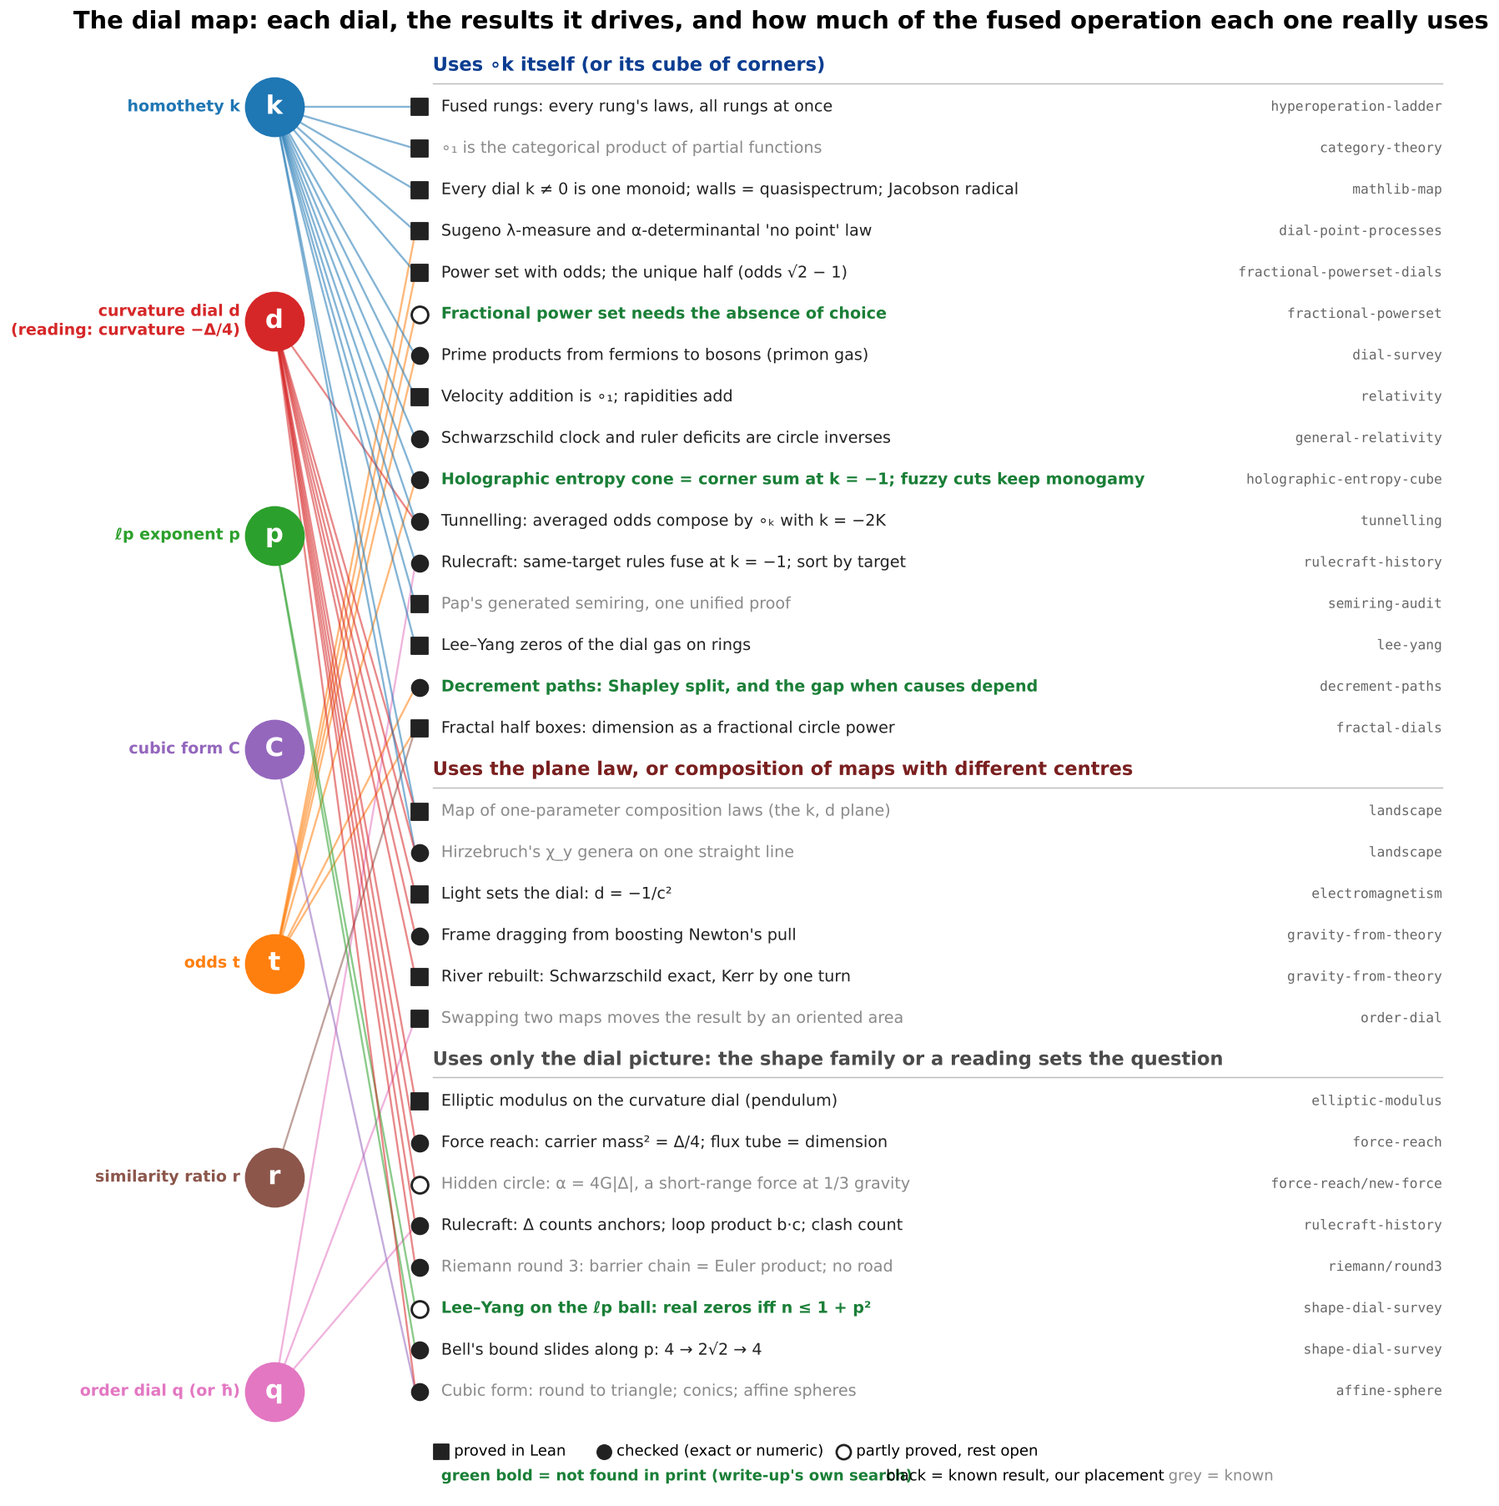
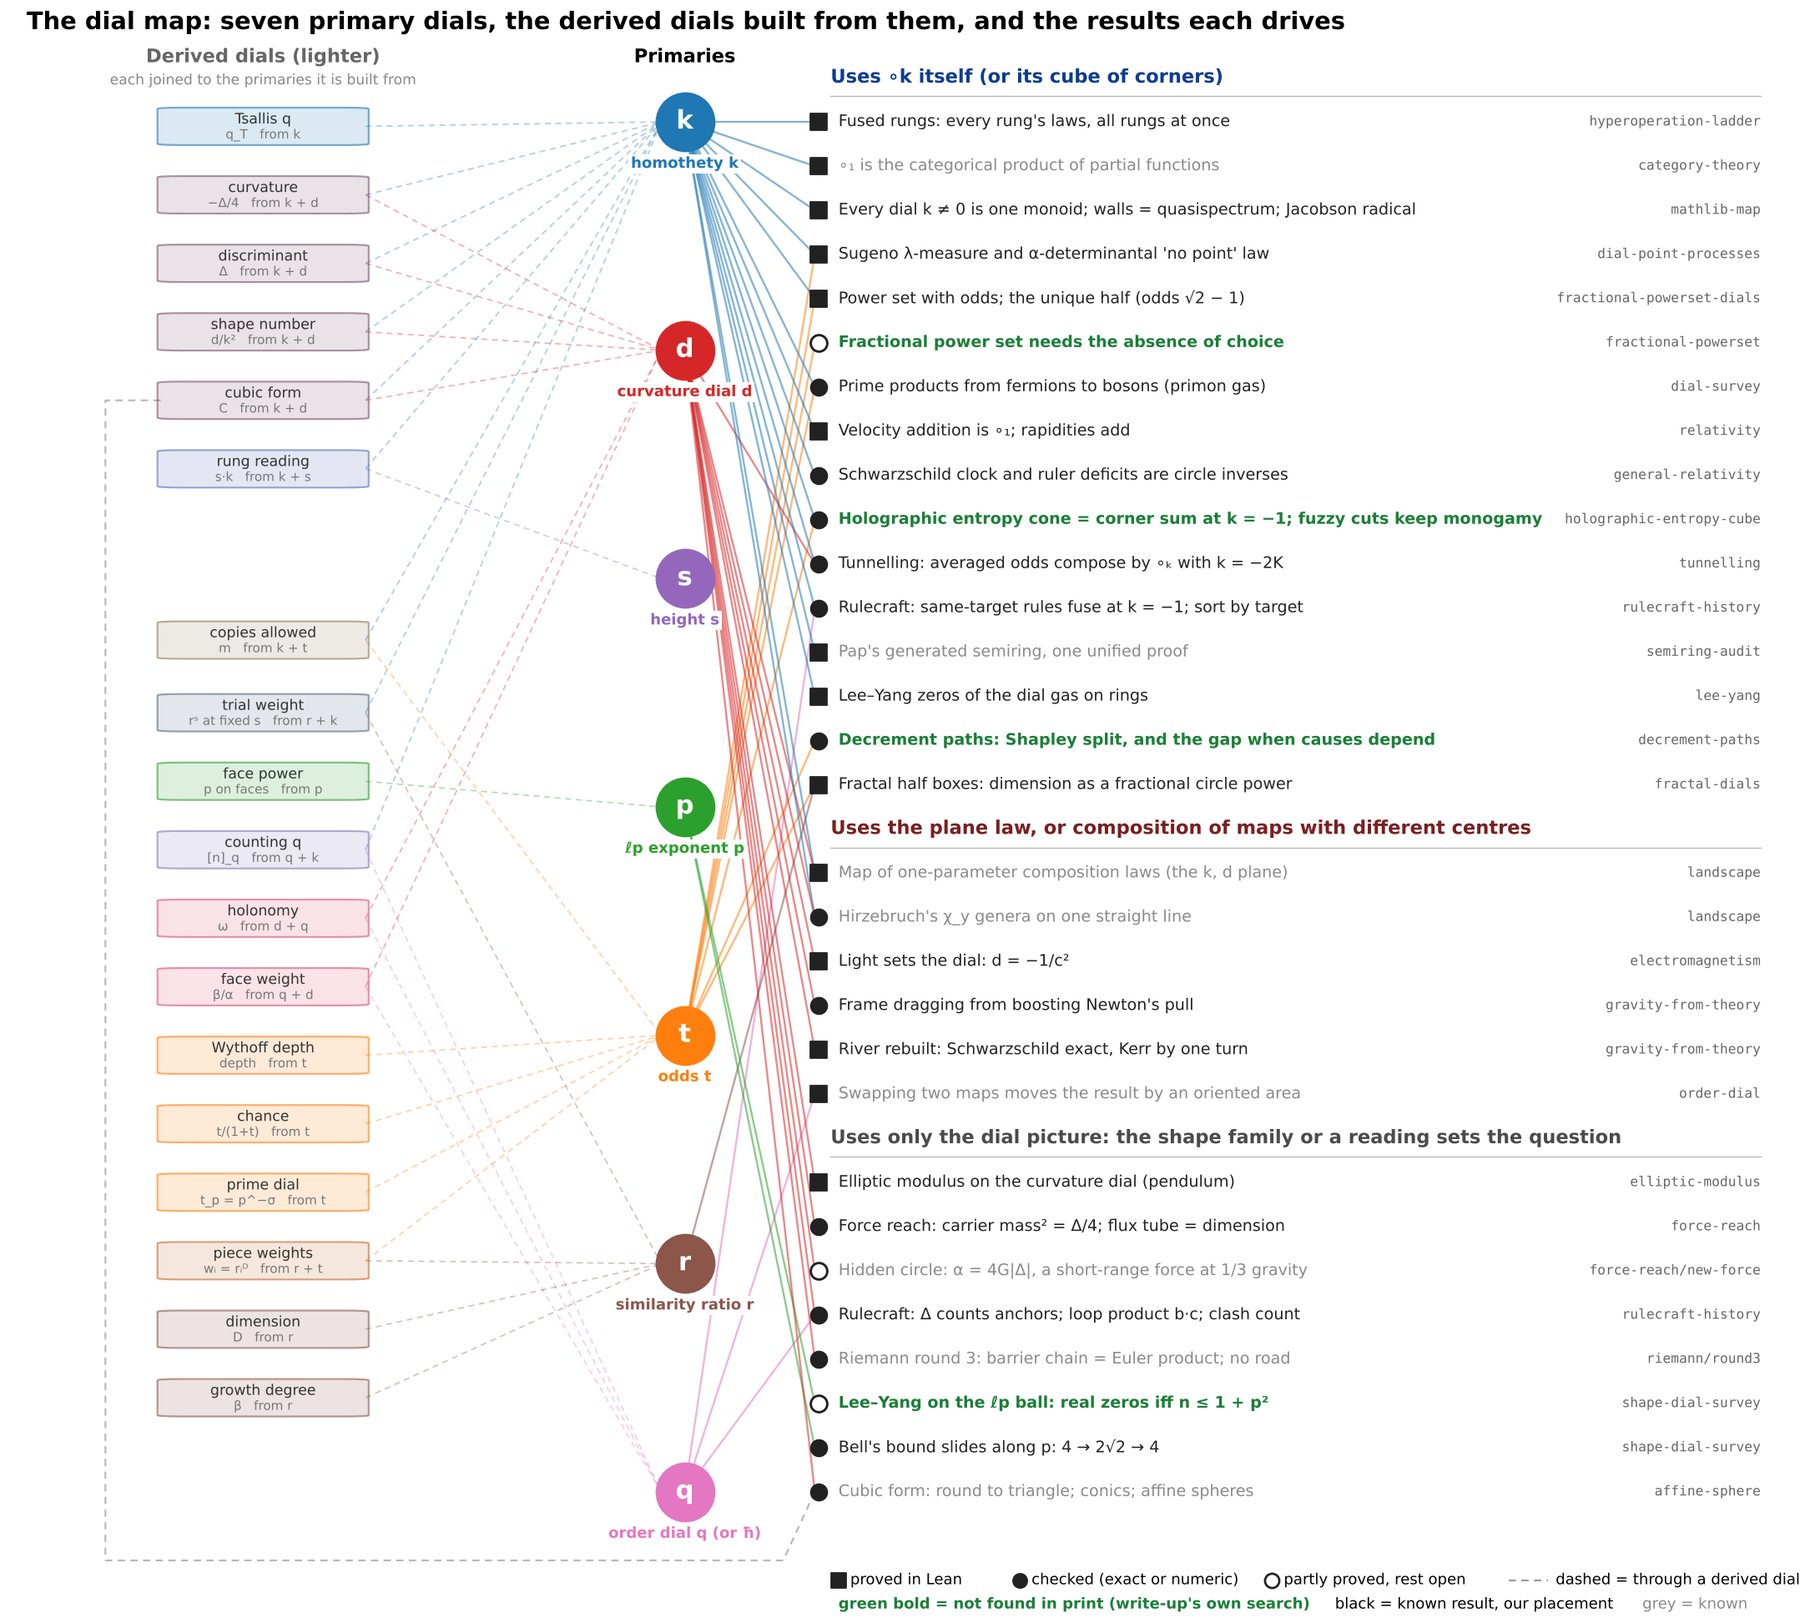
DRAFT: dial map shows primaries and derived dials
Seven primaries (k, d, s, p, t, r, q) as hubs; derived dials from the dial-audit
catalogue drawn lighter, each joined to its primaries; C moved to derived.

diff --git a/topics/dial-map/figures.py b/topics/dial-map/figures.py
@@ -5,7 +5,11 @@ import matplotlib
 matplotlib.use("Agg")
 import matplotlib.pyplot as plt
 from matplotlib.patches import FancyBboxPatch, FancyArrowPatch, Polygon
-from results import DIALS, RESULTS
+from results import DIALS, RESULTS, DERIVED_KEYS
+import sys as _sys
+_sys.path.insert(0, os.path.join(os.path.dirname(os.path.abspath(__file__)), "..", "dial-audit"))
+from derived_dials import DERIVED  # the one catalogue of derived dials
+import matplotlib.colors as mcolors
 
 HERE = os.path.dirname(os.path.abspath(__file__))
 OUT = os.path.join(HERE, "figures")
@@ -82,14 +86,16 @@ def fig1():
 
 # ---------------------------------------------------------------- fig 2: the main map
 def fig2():
+    """Seven primaries as the hubs; derived dials drawn lighter on the left, each joined to the primaries
+    it is built from; results on the right, joined to the dials that drive them."""
     order = ["op", "plane", "pic"]
     rows = []
     for b in order:
         rows.append(("HEADER", b))
         rows += [r for r in RESULTS if r[2] == b]
     n = len(rows)
-    fig, ax = plt.subplots(figsize=(17, 0.47 * n + 2.2))
-    ax.set_xlim(-0.05, 1.62); ax.set_ylim(-1.5, n + 1.2); ax.axis("off")
+    fig, ax = plt.subplots(figsize=(21, 0.5 * n + 2.6))
+    ax.set_xlim(-0.62, 1.62); ax.set_ylim(-1.7, n + 1.4); ax.axis("off")
     ys = {}
     yy = n
     for r in rows:
@@ -100,19 +106,59 @@ def fig2():
         else:
             ys[r] = yy
         yy -= 1
-    # dial hubs on the left, spread evenly
+    HX = 0.235
     nd = len(DIALS)
     hub_y = {d[0]: n - 1 - i * (n - 2) / (nd - 1) for i, d in enumerate(DIALS)}
+    # derived dials: target height = mean of their parents' hubs, then spread apart
+    DX = -0.30
+    items = sorted(DERIVED, key=lambda e: (np.mean([hub_y[p_] for p_ in e[2]]), -len(e[2])), reverse=True)
+    ty = [float(np.mean([hub_y[p_] for p_ in e[2]])) for e in items]
+    sep = 1.55
+    for _ in range(500):
+        moved = False
+        for i in range(len(ty) - 1):
+            if ty[i] - ty[i + 1] < sep:
+                push = (sep - (ty[i] - ty[i + 1])) / 2
+                ty[i] += push; ty[i + 1] -= push; moved = True
+        if not moved:
+            break
+    top, bot = n - 1.1, 0.0   # keep the column inside the plot, keeping order and spacing
+    span = ty[0] - ty[-1]
+    if span > top - bot:
+        ty = [bot + (y - ty[-1]) * (top - bot) / span for y in ty]
+    else:
+        shift = max(0, ty[0] - top) - max(0, bot - ty[-1])
+        ty = [y - shift for y in ty]
+    dpos = {}
+    for e, y in zip(items, ty):
+        name, sym, par = e[0], e[1], e[2]
+        mix = np.mean([mcolors.to_rgb(DCOL[p_]) for p_ in par], axis=0)
+        for p_ in par:
+            ax.plot([DX + 0.13, HX - 0.03], [y, hub_y[p_]], color=DCOL[p_], lw=1.0, alpha=0.35, ls=(0, (4, 3)), zorder=1)
+        ax.add_patch(FancyBboxPatch((DX - 0.13, y - 0.42), 0.26, 0.84, boxstyle="round,pad=0.004,rounding_size=0.03",
+                                    fc=(*mix, 0.16), ec=(*mix, 0.6), lw=1.2, zorder=3))
+        ax.text(DX, y + 0.15, name, ha="center", va="center", fontsize=9.6, color="#333", zorder=4)
+        ax.text(DX, y - 0.2, sym + "   from " + " + ".join(par), ha="center", va="center", fontsize=8.4, color="#777", zorder=4)
+        dpos[name] = y
+    ax.text(DX, n + 0.35, "Derived dials (lighter)", ha="center", fontsize=12.5, weight="bold", color="#666")
+    ax.text(DX, n - 0.15, "each joined to the primaries it is built from", ha="center", fontsize=9.5, color="#888")
+    ax.text(HX, n + 0.35, "Primaries", ha="center", fontsize=12.5, weight="bold")
     for letter, name, col in DIALS:
         y = hub_y[letter]
-        ax.scatter([0.235], [y], s=1500, color=col, zorder=5)
-        ax.text(0.235, y, letter, ha="center", va="center", color="white", fontsize=17, weight="bold", zorder=6)
-        ax.text(0.195, y, name, ha="right", va="center", fontsize=10.5, color=col, weight="bold")
-    # edges
+        ax.scatter([HX], [y], s=1500, color=col, zorder=5)
+        ax.text(HX, y, letter, ha="center", va="center", color="white", fontsize=17, weight="bold", zorder=6)
+        ax.text(HX, y - 0.95, name, ha="center", va="center", fontsize=10, color=col, weight="bold", zorder=6,
+                bbox=dict(fc="white", ec="none", pad=1.5))
+    # edges: from a primary hub, or from a derived dial's box (drawn lighter, routed below the hubs)
     for r, y in ys.items():
         for letter in r[1]:
-            ax.plot([0.235, 0.40], [hub_y[letter], y], color=DCOL[letter], lw=1.3, alpha=0.55, zorder=1)
-    # result nodes
+            if letter in DERIVED_KEYS:
+                y0 = dpos[DERIVED_KEYS[letter]]
+                xs = [DX - 0.13, -0.50, -0.50, 0.36, 0.40]
+                yv = [y0, y0, -0.55, -0.55, y]
+                ax.plot(xs, yv, color="#9a9a9a", lw=1.2, alpha=0.7, ls=(0, (4, 3)), zorder=1)
+            else:
+                ax.plot([HX, 0.40], [hub_y[letter], y], color=DCOL[letter], lw=1.3, alpha=0.55, zorder=1)
     for r, y in ys.items():
         name, dials, b, status, new, folder = r
         if status == "lean":
@@ -124,16 +170,17 @@ def fig2():
         ax.text(0.43, y, name, va="center", fontsize=10.6, color=NEWCOL[new],
                 weight="bold" if new == "new" else "normal")
         ax.text(1.60, y, folder, va="center", ha="right", fontsize=9, color="#666", family="DejaVu Sans Mono")
-    # legend (two lines)
-    ly, ly2 = -0.45, -1.05
+    ly, ly2 = -1.0, -1.55
     ax.scatter([0.43], [ly], marker="s", s=90, color="#222"); ax.text(0.445, ly, "proved in Lean", va="center", fontsize=10)
-    ax.scatter([0.62], [ly], marker="o", s=90, color="#222"); ax.text(0.635, ly, "checked (exact or numeric)", va="center", fontsize=10)
-    ax.scatter([0.90], [ly], marker="o", s=90, facecolor="white", edgecolor="#222", lw=1.5)
-    ax.text(0.915, ly, "partly proved, rest open", va="center", fontsize=10)
+    ax.scatter([0.66], [ly], marker="o", s=90, color="#222"); ax.text(0.675, ly, "checked (exact or numeric)", va="center", fontsize=10)
+    ax.scatter([0.98], [ly], marker="o", s=90, facecolor="white", edgecolor="#222", lw=1.5)
+    ax.text(0.995, ly, "partly proved, rest open", va="center", fontsize=10)
+    ax.plot([1.28, 1.33], [ly, ly], color="#9a9a9a", ls=(0, (4, 3)), lw=1.2)
+    ax.text(1.34, ly, "dashed = through a derived dial", va="center", fontsize=10)
     ax.text(0.43, ly2, "green bold = not found in print (write-up's own search)", va="center", fontsize=10, color=NEWCOL["new"], weight="bold")
-    ax.text(0.95, ly2, "black = known result, our placement", va="center", fontsize=10)
-    ax.text(1.28, ly2, "grey = known", va="center", fontsize=10, color=NEWCOL["known"])
-    ax.text(0.0, n + 0.9, "The dial map: each dial, the results it drives, and how much of the fused operation each one really uses",
+    ax.text(1.06, ly2, "black = known result, our placement", va="center", fontsize=10)
+    ax.text(1.45, ly2, "grey = known", va="center", fontsize=10, color=NEWCOL["known"])
+    ax.text(-0.6, n + 1.1, "The dial map: seven primary dials, the derived dials built from them, and the results each drives",
             fontsize=16, weight="bold")
     save(fig, "fig2-dial-map.png")
 

diff --git a/topics/dial-map/results.py b/topics/dial-map/results.py
@@ -2,15 +2,20 @@
 the fused operation, its status, how new it is, and the folder it lives in.
 Every row was read off that folder's README on Nov 26, 2026 (see README.md here)."""
 
-DIALS = [  # letter, name, colour
+DIALS = [  # the seven primaries (dial audit, Nov 26): letter, name, colour
     ("k", "homothety k", "#1f77b4"),
-    ("d", "curvature dial d\n(reading: curvature −Δ/4)", "#d62728"),
+    ("d", "curvature dial d", "#d62728"),
+    ("s", "height s", "#9467bd"),
     ("p", "ℓp exponent p", "#2ca02c"),
-    ("C", "cubic form C", "#9467bd"),
     ("t", "odds t", "#ff7f0e"),
     ("r", "similarity ratio r", "#8c564b"),
     ("q", "order dial q (or ħ)", "#e377c2"),
 ]
+
+# Derived dials, drawn lighter and joined to the primaries they are built from (Brennan, Nov 26:
+# "Show both that way"). The list itself lives in ../dial-audit/derived_dials.py, the one catalogue.
+# A result can name a derived dial by its key here; "C" is the cubic form.
+DERIVED_KEYS = {"C": "cubic form"}
 
 # bin: "op"    = uses a ∘ₖ b = a + b + k·ab itself, or its cube of corners
 #      "plane" = uses the plane law (a + b + k·ab)/(1 − d·ab) or the wider affine/Möbius composition

diff --git a/topics/dial-map/README.md b/topics/dial-map/README.md
@@ -45,23 +45,35 @@ The point of the picture: the theory is not a new foundation. It is a well-place
 
 ## 2. The dial map
 
-![Seven dials on the left, thirty results on the right, sorted by how they use the fused operation](figures/fig2-dial-map.png)
+![Seven primary dials in the middle, derived dials drawn lighter on the left, thirty results on the right](figures/fig2-dial-map.png)
 
-*Figure 2. Each line joins a dial to a result it drives. Results are grouped by how much of the fused operation they
-use. Squares are proved in Lean, filled circles are checked, open circles are partly proved. Green bold marks results not
-found in print in the write-up's own search; black marks a known result in our placement; grey marks known results.*
+*Figure 2. The seven primaries (from the [dial audit](../dial-audit/README.md)) are the hubs. Derived dials are drawn
+lighter on the left, each joined by dashed lines to the primaries it is built from, so work phrased in derived terms
+(curvature, Tsallis q, dimension, holonomy) still finds its neighbours. Solid lines join a dial to a result it drives;
+a dashed grey line means the result is labelled by a derived dial. Results are grouped by how much of the fused
+operation they use. Squares are proved in Lean, filled circles are checked, open circles are partly proved. Green bold
+marks results not found in print in the write-up's own search; black marks a known result in our placement; grey marks
+known results.*
+
+**Primaries and derived dials on one map (Brennan, Nov 26: "Show both that way").** The map's job is finding
+neighbouring work, and other fields usually speak in derived terms: physicists say curvature, not k and d. So both are
+shown, the primaries as the axes and the derived dials lighter. The derived list is read from the one catalogue,
+[`../dial-audit/derived_dials.py`](../dial-audit/derived_dials.py) (table in
+[DERIVED-DIALS.md](../dial-audit/DERIVED-DIALS.md)), so the two stay in step. Height s is a hub with no headline result
+on the map yet; it reaches results only through the rung reading.
 
 | Dial | What turning it does | Drives (folders) |
 |---|---|---|
 | **k**, homothety | Moves the wall −1/k that every scaling shares. k = 0 is addition, 1 the circle operation, −1 "A or B". | hyperoperation-ladder, category-theory, mathlib-map, dial-point-processes, dial-survey, relativity, general-relativity, holographic-entropy-cube, tunnelling, rulecraft-history, semiring-audit, lee-yang, landscape |
-| **d**, curvature dial (reading: curvature −Δ/4) | Bends ∘ₖ into the plane law (a + b + k·ab)/(1 − d·ab). The sign of Δ picks the kind. | landscape, electromagnetism, gravity-from-theory, tunnelling, elliptic-modulus, force-reach, rulecraft-history §7, riemann/round3, conics |
+| **d**, curvature dial (derived reading: curvature −Δ/4) | Bends ∘ₖ into the plane law (a + b + k·ab)/(1 − d·ab). The sign of Δ picks the kind. | landscape, electromagnetism, gravity-from-theory, tunnelling, elliptic-modulus, force-reach, rulecraft-history §7, riemann/round3, conics |
+| **s**, height | Rung s of a law; leaves the (k, d) plane (dial audit §3). | fractional-rungs, height-flow (no headline result on the map yet) |
 | **p**, ℓp exponent | Slides the shape from cross-polytope (1) through ball (2) to cube (∞). | shape-dial-survey (Lee–Yang on the ℓp ball, Bell's bound) |
-| **C**, cubic form (derived, not a free dial; see the note below) | Slides round to triangle. Zero exactly for ellipses. | simplex, affine-sphere, shape-dial-survey |
+| **C**, cubic form (derived from k and d; drawn as a derived dial) | Slides round to triangle. Zero exactly for ellipses. | simplex, affine-sphere, shape-dial-survey |
 | **t**, odds | How strongly each element takes part. All t = 1 is the plain power set. | fractional-powerset-dials, fractional-powerset, dial-survey, dial-point-processes, decrement-paths, fractal-dials |
 | **r**, similarity ratio | The zoom of each piece; dimension D comes out as a reading. | fractal-dials |
 | **q**, order dial (or ħ) | Turns order on. The swap gap is an oriented area, the holonomy ω. | order-dial, rulecraft-history |
 
-**C is derived from k and d, not a free dial (Nov 26).** Brennan: "It is derived from k and d." It fits what the laws do: every law (a + b + k·ab)/(1 − d·ab) has a quadratic norm a² + k·ab + d·b², so its unit curve is a conic. Conics are the round end of the cubic-form dial, where C = 0 ([`affine-names/`](../affine-names/) §4, Maschke–Pick–Berwald; every non-degenerate conic is projectively an ellipse). So within the (k, d) laws C never moves off zero: it adds no freedom of its own and only measures shapes the laws don't make. The row stays because the results it labels are real; the figures still draw seven hubs. The other dials each have a survey: [k](../homothety-dial-survey/), [d](../curvature-dial-survey/), [q](../order-dial-survey/), [t](../odds-dial-survey/), [r](../ratio-dial-survey/), and p in [shape-dial-survey](../shape-dial-survey/).
+**C is derived from k and d, not a free dial (Nov 26).** Brennan: "It is derived from k and d." It fits what the laws do: every law (a + b + k·ab)/(1 − d·ab) has a quadratic norm a² + k·ab + d·b², so its unit curve is a conic. Conics are the round end of the cubic-form dial, where C = 0 ([`affine-names/`](../affine-names/) §4, Maschke–Pick–Berwald; every non-degenerate conic is projectively an ellipse). So within the (k, d) laws C never moves off zero: it adds no freedom of its own and only measures shapes the laws don't make. The row stays because the results it labels are real. Figure 2 now draws C as a derived dial joined to k and d, and the seven hubs are the audit's primaries: k, d, s, p, t, r, q. The other dials each have a survey: [k](../homothety-dial-survey/), [d](../curvature-dial-survey/), [q](../order-dial-survey/), [t](../odds-dial-survey/), [r](../ratio-dial-survey/), and p in [shape-dial-survey](../shape-dial-survey/).
 
 The growth degree β is a setting, not a dial ([`affine-names/`](../affine-names/) §6), so it has no hub here.
 

diff --git a/INDEX.md b/INDEX.md
@@ -47,7 +47,7 @@ Work saved mid-way so nothing is held back. Each is marked DRAFT at the top of i
 | DRAFT: tunnelling as a dial boost: a barrier is the boost at q = −1, a lossless mixer at q = +1; phase-averaged half-chords compose by ∘ with k = −2K. Rewind: a barrier keeps the whole spread on a ladder of fused laws ∘ₖ, k = n(n + 1), none with a wall; a 50/50 mixer erases the odd rungs. | `topics/tunnelling/` | `Topics/Tunnelling` |
 | DRAFT: the elliptic modulus on the curvature dial: κ = 1 − 2m joins tan to tanh; fingerprint R = 6/5 − (9/10)ε/κ², so any odd contact-3 map with R ≠ 6/5 is formally elliptic. | `topics/elliptic-modulus/` | `Topics/EllipticModulus` |
 | DRAFT: history in Rulecraft: every rule a strength and a target; same-target rules fuse by k = −1, order splits the pull but not its total, best order sorts by target. Coupling: the clash graph counts the distinct histories (|χ(−1)|); two rules that read each other fall into five behaviours set by the loop product b·c. | `topics/rulecraft-history/` | — |
-| DRAFT: the dial map. Where the theory sits in the order of maths (sets, objects, arrows, universal properties, families), the seven dials and the 30 headline results each drives, sorted by how much of ∘ₖ each uses (16 use it itself, 6 its extension, 8 only the dial picture), the benefits each backed by a proved or checked result, and how Rulecraft became a lead | `topics/dial-map/` | — |
+| DRAFT: the dial map. Where the theory sits in the order of maths (sets, objects, arrows, universal properties, families), the seven dials and the 30 headline results each drives, sorted by how much of ∘ₖ each uses (16 use it itself, 6 its extension, 8 only the dial picture), the benefits each backed by a proved or checked result, and how Rulecraft became a lead. The map now shows the seven primaries as hubs and the derived dials lighter, each joined to its primaries | `topics/dial-map/` | [page](https://claude.ai/artifact/AxjGCrpGxdYSPsxbr2Q8yY) |
 | DRAFT: dial audit. Which of the seven dials are fundamental: k, d, s, p, t are; r is odds plus one zoom; q is d × area or k = q − 1 unless put in by hand. Derived dials catalogued as a mixing table (DERIVED-DIALS.md). 37 checks; DialAudit.lean (9 theorems) | `topics/dial-audit/` | [page](https://claude.ai/artifact/6poHjyoQQHuqm3kmLEXWRK) |
 | DRAFT: fractional steps of the height flow: only whole steps stay real chances. | `topics/fractional-steps/` | — |
 | DRAFT: parabolic fingerprints: where the rung step's exact fingerprint shows up. | `topics/parabolic-fingerprints/` | — |

diff --git a/PAGES-INDEX.md b/PAGES-INDEX.md
@@ -118,3 +118,4 @@ Parent task u4a32564ac49a3dc7a985ee689b18dee0.
 - shape set operations (DRAFT, Nov 26; fused law = union of independent slabs at k = −1/M, wall = ambient; pair dial from overlaps, associativity defect = Yeung I-measure centre; OR, XOR, AND, XNOR the only commutative associative Boolean ops, at k, 2k and complement mirrors; distributivity = conditioning; e result moved by p (Mittag-Leffler) and k (E(k) = (1 + k)^(1/k) + k/(1 + k), not found in print); lead; 56 checks, 12 figures) no page; repo write-up only — shape-set-operations/
 - Shape dials (DRAFT, Nov 26; every angular shape reached by the roundness dial p aimed at its faces, ball at p = 2, exact shape at p = ∞; Wythoff truncation depth is derived, not a new dial: a Minkowski sum of corner shapes weighted by odds; 29 + 20 checks; lead) https://claude.ai/artifact/7beFuYyQk8yRCevuM2bMoN — shape-dials/
 - dial audit + derived-dial mixing chart (DRAFT, Nov 26; k, d, s, p, t fundamental, r = odds + zoom, q mostly d × area; derived dials as a mixing table) 6poHjyoQQHuqm3kmLEXWRK
+- dial map (DRAFT, Nov 26; seven primaries as hubs, derived dials lighter and joined to their primaries, 30 results) AxjGCrpGxdYSPsxbr2Q8yY
